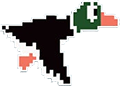
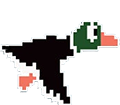
Menu with working play button.

diff --git a/src/org/academiadecodigo/bootcamp8/duckhunt/Menu.java b/src/org/academiadecodigo/bootcamp8/duckhunt/Menu.java
@@ -1,0 +1,80 @@
+package org.academiadecodigo.bootcamp8.duckhunt;
+
+import org.academiadecodigo.bootcamp8.duckhunt.SimpleGFX.MenuRepresentation;
+import org.academiadecodigo.simplegraphics.mouse.Mouse;
+import org.academiadecodigo.simplegraphics.mouse.MouseEvent;
+import org.academiadecodigo.simplegraphics.mouse.MouseEventType;
+import org.academiadecodigo.simplegraphics.mouse.MouseHandler;
+
+import javax.sound.midi.SoundbankResource;
+
+public class Menu extends Game {
+
+    private MenuRepresentation menuRepresentation;
+    private MenuMouse menuMouse;
+    private int x;
+    private int y;
+    private int playButtonX;
+    private int playButtonY;
+    private int playButtonXOffset;
+    private int playButtonYOffset;
+    private boolean menuSelection;
+
+    public Menu() {
+        menuMouse = new MenuMouse();
+        menuRepresentation = new MenuRepresentation();
+        menuRepresentation.init();
+        playButtonX = 453;
+        playButtonXOffset = 747;
+        playButtonY = 518;
+        playButtonYOffset = 589;
+        menuSelection = false;
+    }
+
+    public int getX() {
+        return x;
+    }
+
+    public int getY() {
+        return y;
+    }
+
+    public int menuSelection() throws InterruptedException {
+        while (!menuSelection) {
+            Thread.sleep(100);
+            if ((getX() >= playButtonX && getX() <= playButtonXOffset) &&
+                    (getY() >= playButtonY && getY() <= playButtonYOffset)) {
+                menuSelection = true;
+                return 1;
+            }
+        }
+        return 0;
+    }
+
+    private class MenuMouse implements MouseHandler {
+
+        private Mouse mouse;
+
+        public MenuMouse() {
+            this.mouse = new Mouse(this);
+            addEventListener();
+        }
+
+        public void addEventListener() {
+            mouse.addEventListener(MouseEventType.MOUSE_CLICKED);
+        }
+
+        @Override
+        public void mouseClicked(MouseEvent e) {
+            x = (int) e.getX();
+            y = (int) e.getY();
+            System.out.println(x);
+            System.out.println(y);
+        }
+
+        @Override
+        public void mouseMoved(MouseEvent e) {
+        }
+    }
+}
+

diff --git a/src/org/academiadecodigo/bootcamp8/duckhunt/GameObjects/Gun.java b/src/org/academiadecodigo/bootcamp8/duckhunt/GameObjects/Gun.java
@@ -18,37 +18,6 @@ public class Gun {
         gunController = new GunController();
         bullets = 100;
     }
-
-    /*
-    // BULLETS LOGIC
-
-    private Picture [] pic1;
-    private int picNumber;
-    private int maxBullets = 10;
-    private int bulletRemove = maxBullets-1;
-
-    //*****************************************************************
-       for (int picNumber=0; picNumber<=maxBullets; picNumber++){
-        pic1[picNumber] = new Picture(20+(40*picNumber), 500, "images/bullet.png");
-        pic1[picNumber].grow(-150, -220);
-        pic1[picNumber].draw();
-    }
-    //*****************************************************************
-
-
-    //*****************************************************************
-    @Override
-    public void mouseClicked(MouseEvent e) {
-        pic1[bulletRemove].delete();
-        System.out.println(e);
-        bulletRemove--;
-    }
-    //*****************************************************************
-
-*/
-
-
-
     public void shoot() {
         bullets--;
     }
@@ -66,17 +35,11 @@ public class Gun {
     private class GunController implements MouseHandler {
 
         private Mouse mouse;
-        //private MouseEvent currEvent;
 
         public GunController() {
             this.mouse = new Mouse(this);
-            //this.currEvent = currEvent;
             addEventListener();
         }
-
-        /*public MouseEvent getCurrEvent() {
-            return currEvent;
-        }*/
 
         public void addEventListener() {
             mouse.addEventListener(MouseEventType.MOUSE_CLICKED);
@@ -94,7 +57,7 @@ public class Gun {
         public void mouseMoved(MouseEvent e) {
             //e.setX(e.getX()-8);
             //e.setY(e.getY()-28);
-            //System.out.println(e);
+            System.out.println(e);
         }
     }
 

diff --git a/src/org/academiadecodigo/bootcamp8/duckhunt/Game.java b/src/org/academiadecodigo/bootcamp8/duckhunt/Game.java
@@ -7,12 +7,17 @@ import org.academiadecodigo.bootcamp8.duckhunt.GameObjects.GameObjects;
 import org.academiadecodigo.bootcamp8.duckhunt.GameObjects.GameObjectsFactory;
 import org.academiadecodigo.bootcamp8.duckhunt.GameObjects.Gun;
 import org.academiadecodigo.bootcamp8.duckhunt.GameObjects.Ufo;
+import org.academiadecodigo.bootcamp8.duckhunt.SimpleGFX.MenuRepresentation;
 import org.academiadecodigo.simplegraphics.graphics.Canvas;
 import org.academiadecodigo.simplegraphics.graphics.Color;
 import org.academiadecodigo.simplegraphics.graphics.Text;
 
+import javax.sound.midi.SoundbankResource;
+import javax.xml.bind.SchemaOutputResolver;
+
 
 public class Game {
+
     private Canvas canvas;
     private Duck[] ducks;
     private GameObjects[] specials;
@@ -21,15 +26,25 @@ public class Game {
     private Integer gameScore;
     private Text displayScore;
 
-
     public Game() {
         canvas = Canvas.getInstance();
-        field = new Field();
-        gun = new Gun();
-        gameScore = 0;
+    }
+
+    public void menu() throws InterruptedException {
+        Menu menu = new Menu();
+        switch (menu.menuSelection()) {
+            case 1:
+                init();
+                start();
+            case 0:
+                System.out.println("Something went wrong with menuSelection.");
+        }
     }
 
     public void init() throws InterruptedException {
+        field = new Field();
+        gameScore = 0;
+        gun = new Gun();
         ducks = new Duck[4];
         for (int i = 0; i < ducks.length; i++) {
             ducks[i] = GameObjectsFactory.getNewDuck();

diff --git a/src/org/academiadecodigo/bootcamp8/duckhunt/SimpleGFX/MenuRepresentation.java b/src/org/academiadecodigo/bootcamp8/duckhunt/SimpleGFX/MenuRepresentation.java
@@ -1,0 +1,17 @@
+package org.academiadecodigo.bootcamp8.duckhunt.SimpleGFX;
+
+import org.academiadecodigo.bootcamp8.duckhunt.Representable;
+import org.academiadecodigo.simplegraphics.pictures.Picture;
+
+public class MenuRepresentation implements Representable {
+
+    private Picture menuBackground;
+
+    @Override
+    public void init() {
+        menuBackground = new Picture(0, 0, "images/menu/menu.with.play.png");
+        menuBackground.draw();
+    }
+}
+
+

diff --git a/src/org/academiadecodigo/bootcamp8/duckhunt/DuckHunt.java b/src/org/academiadecodigo/bootcamp8/duckhunt/DuckHunt.java
@@ -7,8 +7,8 @@ public class DuckHunt {
     public static void main(String[] args) throws InterruptedException {
 
         Game game = new Game();
-        game.init();
-        game.start();
+        game.menu();
+        //game.start();
 
 
     }
